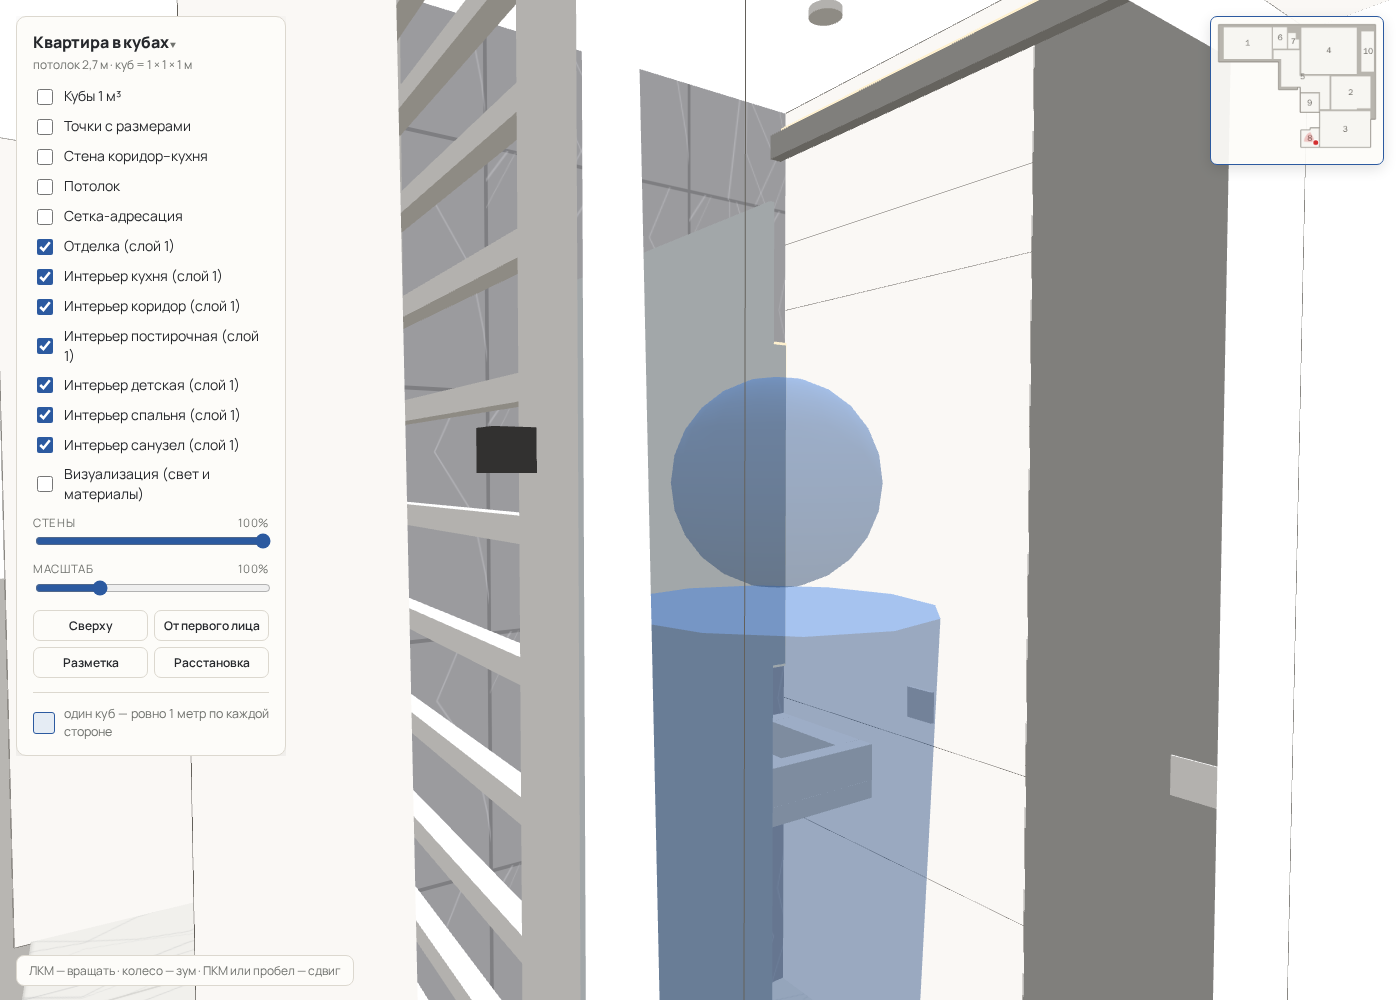
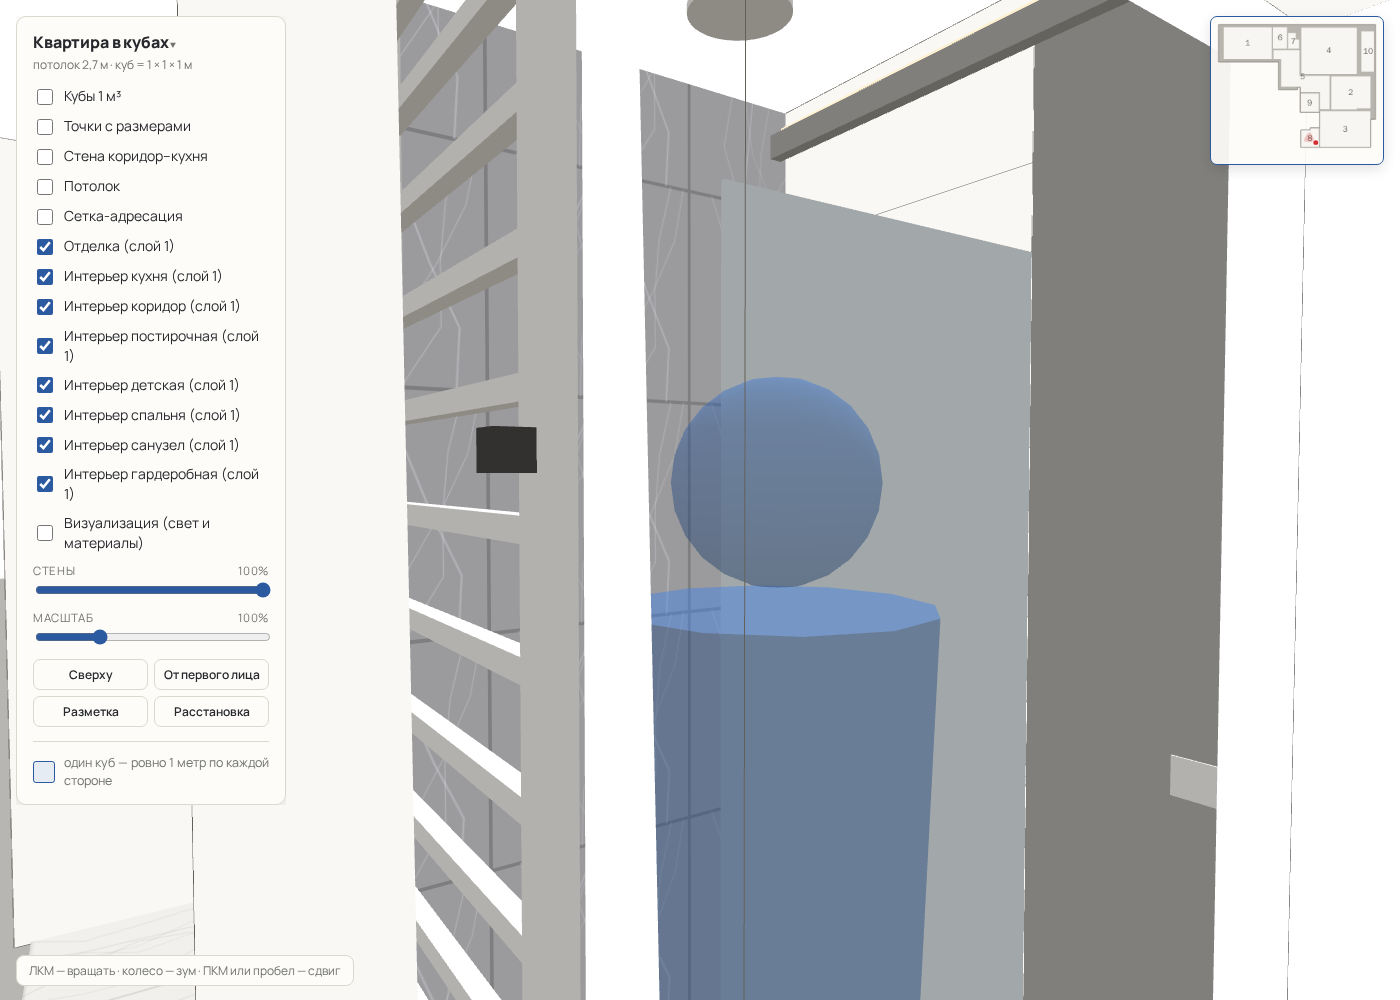
bath8: shower along the whole west wall, glass on the toilet side, no basin

Changed region(s): [[0.5529, 0.186, 0.7371, 1.0], [0.0307, 0.465, 0.215, 0.806], [0.4914, 0.0, 0.6143, 0.062]]

diff --git a/items.js b/items.js
@@ -374,36 +374,25 @@ const PHYS={}; // id → boxes
     {id:'sw5',type:'выключатель 2 клавиши в коридоре у двери санузла: свет + вытяжка; рядом терморегулятор тёплого пола',room:5,layer:'bath',pos:[10.038,8.414],rot:0,size:[0.01,0.99,0.08],fixed:'wall',build(b){ b(0,0.01,0.91,0.99,0,0.08,mat.lamp); }},
     // ---- bathroom 8 (tasks/bath8/README.md, marks M1–M21; grey materials only) ----
     // Room box: x 8.192–9.872, z 11.588–13.144 plus the bump x 9.098–9.872, z 11.384–11.588 (closed by wcbox8). Door on the east
-    // wall z 12.20–13.00. Tiles follow PLAN.baths[1]: west at x 8.235, south at z 13.124, east at x 9.852; the north wall west
+    // wall z 12.20–13.00. The shower runs along the whole west wall (opposite the door); no basin in this room (iteration 2). Tiles follow PLAN.baths[1]: west at x 8.235, south at z 13.124, east at x 9.852; the north wall west
     // of the bump has no tile (z 11.588). The passage strip x 9.10–9.872 × z 12.20–13.00 must stay empty (check.js).
     // Shower floor: the real tray is 0.02 below the finished floor, but floor layers (0.001–0.009) would hide a mesh below 0,
     // so the tray is a darker plate at 0.010 — it reads as a different surface and never flickers with the floor.
-    {id:'shower8',type:'душевая зона в уровень пола 0.86×0.84, поддон из плитки на −0.02 с уклоном к трапу',room:8,layer:'bath',pos:[8.235,12.28],rot:0,size:[0.863,0.01,0.844],fixed:'wall',
-     build(b){ b(0,0.863,0.007,0.010,0,0.844,mat.top); }},
-    {id:'drain8',type:'линейный трап 0.74×0.06 вдоль западной стены',room:8,layer:'bath',pos:[8.25,12.36],rot:0,size:[0.06,0.012,0.74],fixed:'wall',
-     build(b){ b(0,0.06,0.010,0.012,0,0.74,mat.handle); }},
-    {id:'curb8e',type:'бортик душа 0.05×0.05, восточная кромка (переступается)',room:8,layer:'bath',pos:[9.048,12.28],rot:0,size:[0.05,0.05,0.844],
-     build(b){ b(0,0.05,0,0.05,0,0.844,mat.kmat); }},
-    {id:'curb8n',type:'бортик душа 0.05×0.05, северная кромка под стеклом',room:8,layer:'bath',pos:[8.235,12.28],rot:0,size:[0.813,0.05,0.05],fixed:'wall',
-     build(b){ b(0,0.813,0,0.05,0,0.05,mat.kmat); }},
-    {id:'glass8',type:'неподвижное стекло душа 0.81×2.05 на северном бортике',room:8,layer:'bath',pos:[8.235,12.30],rot:0,size:[0.813,2.10,0.01],fixed:'wall',
-     build(b){ b(0,0.813,0.05,0.07,0,0.01,mat.frame); b(0,0.813,0.07,2.10,0,0.01,mat.glass); }},                     // profile, glass
-    {id:'rain8',type:'верхний душ Ø0.25 заподлицо с потолком',room:8,layer:'bath',pos:[8.525,12.625],rot:0,size:[0.25,2.70,0.25],fixed:'wall',
+    {id:'shower8',type:'душевая зона в уровень пола 0.81×1.54 вдоль западной стены, поддон из плитки на −0.02 с уклоном к трапу',room:8,layer:'bath',pos:[8.235,11.588],rot:0,size:[0.813,0.01,1.536],fixed:'wall',
+     build(b){ b(0,0.813,0.007,0.010,0,1.536,mat.top); }},
+    {id:'drain8',type:'линейный трап 1.40×0.06 вдоль западной стены',room:8,layer:'bath',pos:[8.25,11.65],rot:0,size:[0.06,0.012,1.40],fixed:'wall',
+     build(b){ b(0,0.06,0.010,0.012,0,1.40,mat.handle); }},
+    {id:'curb8e',type:'бортик душа 0.05×0.05 по восточной кромке на всю длину; вход в душ с юга (z 12.45–13.12) переступается',room:8,layer:'bath',pos:[9.048,11.588],rot:0,size:[0.05,0.05,1.536],
+     build(b){ b(0,0.05,0,0.05,0,1.536,mat.kmat); }},
+    {id:'glass8',type:'неподвижное стекло душа 0.86×2.05 на бортике со стороны унитаза (z 11.59–12.45)',room:8,layer:'bath',pos:[9.088,11.588],rot:0,size:[0.01,2.10,0.862],
+     build(b){ b(0,0.01,0.05,0.07,0,0.862,mat.frame); b(0,0.01,0.07,2.10,0,0.862,mat.glass); }},                     // profile, glass
+    {id:'rain8',type:'верхний душ Ø0.25 заподлицо с потолком, над закрытой частью душа',room:8,layer:'bath',pos:[8.52,11.95],rot:0,size:[0.25,2.70,0.25],fixed:'wall',
      build(b,g){ const c=new THREE.Mesh(new THREE.CylinderGeometry(0.125,0.125,0.02,32),mat.lamp); c.position.set(0.125,2.69,0.125); g.add(c); }},
     {id:'mixer8',type:'термостат душа h 1.10 и ручная лейка h 1.60 в накладном коробе 0.08 (южная стена наружная); восточнее полки',room:8,layer:'bath',pos:[8.90,13.044],rot:0,size:[0.15,1.70,0.08],fixed:'wall',
      build(b){ b(0.035,0.115,0.90,1.70,0.02,0.08,mat.body); b(0,0.15,1.06,1.14,0,0.02,mat.lamp); b(0.055,0.095,1.58,1.62,0,0.02,mat.lamp); b(0.065,0.085,1.38,1.62,-0.01,0.0,mat.lamp); }}, // pipe cover, thermostat bar, holder, handset
     {id:'niche8',type:'накладная полка-ниша 0.60×0.10×0.30 на южной стене, открыта на север, LED по верхней кромке',room:8,layer:'bath',pos:[8.30,13.024],rot:0,size:[0.60,1.35,0.10],fixed:'wall',
      build(b){ b(0,0.6,1.05,1.07,0,0.10,mat.body); b(0,0.6,1.33,1.35,0,0.10,mat.body); b(0,0.02,1.07,1.33,0,0.10,mat.body); b(0.58,0.6,1.07,1.33,0,0.10,mat.body); b(0.02,0.58,1.07,1.33,0.08,0.10,mat.body); // bottom, top, sides, back
        b(0.02,0.58,1.32,1.33,0.005,0.02,mat.led); }},                                                                     // LED strip under the top edge
-    {id:'basin8',type:'раковина подвесная 0.60×0.38 на западной стене, чаша 0.42×0.28, настольный высокий смеситель',room:8,layer:'bath',pos:[8.235,11.59],rot:0,size:[0.38,1.15,0.60],fixed:'wall',
-     build(b,g){
-       b(0,0.38,0.70,0.75,0,0.60,mat.kmat);                                                                            // slab, bowl floor at 0.75
-       b(0,0.05,0.75,0.85,0,0.60,mat.kmat); b(0.33,0.38,0.75,0.85,0,0.60,mat.kmat); b(0.05,0.33,0.75,0.85,0,0.09,mat.kmat); b(0.05,0.33,0.75,0.85,0.51,0.60,mat.kmat); // rim around the bowl x 0.05–0.33 × z 0.09–0.51
-       const d=new THREE.Mesh(new THREE.CylinderGeometry(0.02,0.02,0.004,16),mat.handle); d.position.set(0.19,0.752,0.30); g.add(d);                   // drain
-       const f=new THREE.Mesh(new THREE.CylinderGeometry(0.02,0.02,0.30,12),mat.lamp); f.position.set(0.06,1.00,0.30); g.add(f); b(0.06,0.18,1.13,1.15,0.29,0.31,mat.lamp); // tall deck mixer by the back edge, spout east
-     }},
-    {id:'mirror8',type:'зеркало 0.60×1.00 без рамы на западной стене, LED-контур сзади',room:8,layer:'bath',pos:[8.235,11.59],rot:0,size:[0.02,2.00,0.60],fixed:'wall',
-     build(b){ b(0,0.01,1.00,2.00,0,0.60,mat.led); b(0.01,0.02,1.01,1.99,0.01,0.59,mat.glass); }},                    // light halo behind, glass in front (faces east)
     {id:'wcbox8',type:'выступ северной стены зашит заподлицо (z 11.588) на всю высоту, рама инсталляции внутри; кнопка смыва на оси',room:8,layer:'bath',pos:[9.098,11.384],rot:0,size:[0.774,2.70,0.204],fixed:'wall',
      build(b){ b(0,0.774,0,2.70,0,0.204,mat.body); b(0.33,0.49,0.96,1.04,0.204,0.209,mat.lamp); }},                    // box, flush plate on the toilet axis (x 9.51)
     {id:'wc8',type:'унитаз подвесной компактный 0.36×0.48, сиденье 0.42, фасад на юг',room:8,layer:'bath',pos:[9.34,11.588],rot:0,size:[0.36,0.42,0.48],fixed:'wall',
@@ -419,9 +408,9 @@ const PHYS={}; // id → boxes
        [0.55,1.10,1.60,2.15].forEach(y=>[0.03,0.44].forEach(x=>b(x,x+0.03,y,y+0.03,0.05,0.08,mat.handle)));            // wall brackets
      }},
     // ceiling: three spots Ø0.08, the extractor fan Ø0.12, hidden LED cove along the north and east walls
-    {id:'spot4',type:'точечный светильник над душем, IP65',room:8,layer:'bath',pos:[8.91,12.68],rot:0,size:[0.08,2.70,0.08],fixed:'wall',
+    {id:'spot4',type:'точечный светильник над входом в душ, IP65',room:8,layer:'bath',pos:[8.62,12.75],rot:0,size:[0.08,2.70,0.08],fixed:'wall',
      build(b,g){ const c=new THREE.Mesh(new THREE.CylinderGeometry(0.04,0.04,0.02,24),mat.lamp); c.position.set(0.04,2.69,0.04); g.add(c); }},
-    {id:'spot5',type:'точечный светильник над раковиной',room:8,layer:'bath',pos:[8.71,11.86],rot:0,size:[0.08,2.70,0.08],fixed:'wall',
+    {id:'spot5',type:'точечный светильник в центре комнаты (общий свет)',room:8,layer:'bath',pos:[9.41,12.56],rot:0,size:[0.08,2.70,0.08],fixed:'wall',
      build(b,g){ const c=new THREE.Mesh(new THREE.CylinderGeometry(0.04,0.04,0.02,24),mat.lamp); c.position.set(0.04,2.69,0.04); g.add(c); }},
     {id:'spot6',type:'точечный светильник над унитазом',room:8,layer:'bath',pos:[9.48,11.91],rot:0,size:[0.08,2.70,0.08],fixed:'wall',
      build(b,g){ const c=new THREE.Mesh(new THREE.CylinderGeometry(0.04,0.04,0.02,24),mat.lamp); c.position.set(0.04,2.69,0.04); g.add(c); }},
@@ -431,7 +420,6 @@ const PHYS={}; // id → boxes
     {id:'fan8',type:'вентилятор вытяжки Ø0.12 в потолке над унитазом',room:8,layer:'bath',pos:[9.46,11.69],rot:0,size:[0.12,2.70,0.12],fixed:'wall',
      build(b,g){ const c=new THREE.Mesh(new THREE.CylinderGeometry(0.06,0.06,0.02,24),mat.wpanel); c.position.set(0.06,2.69,0.06); g.add(c); }},
     // electrics: flat boxes 0.08 × 0.08 × 0.01
-    {id:'sock23',type:'розетка IP44 + USB у раковины на северной стене, h 1.00',room:8,layer:'bath',pos:[8.75,11.59],rot:0,size:[0.08,1.04,0.01],fixed:'wall',build(b){ b(0,0.08,0.96,1.04,0,0.01,mat.lamp); }},
     {id:'sock24',type:'скрытый вывод для полотенцесушителя, h 0.45',room:8,layer:'bath',pos:[9.51,13.114],rot:0,size:[0.08,0.49,0.01],fixed:'wall',build(b){ b(0,0.08,0.41,0.49,0,0.01,mat.lamp); }},
     {id:'sw6',type:'выключатель 2 клавиши (свет + вытяжка) и терморегулятор — в спальне 3 у двери санузла',room:3,layer:'bath',pos:[10.041,12.06],rot:0,size:[0.01,0.99,0.08],fixed:'wall',build(b){ b(0,0.01,0.91,0.99,0,0.08,mat.lamp); }},
     // ---- walk-in closet 6 (tasks/wardrobe6/README.md, marks M1–M13; grey materials only) ----

diff --git a/tools/check.js b/tools/check.js
@@ -465,7 +465,7 @@ const { chromium } = require('playwright');
     await page.evaluate(([x, z, th]) => controls.setFPV(x, z, th), [x, z, th]); await page.waitForTimeout(300);
     await page.screenshot({ path: path.join(outDir, name + '.png') });
   }
-  // bath8: the passage strip x 9.10–9.872 × z 12.20–13.00 × 0–2.10 is free of every part box of room 8 (tolerance 1e-6),
+  // bath8: shower along the whole west wall, glass on the toilet side, no basin; the passage strip x 9.10–9.872 × z 12.20–13.00 × 0–2.10 is free of every part box of room 8 (tolerance 1e-6),
   // toilet axis ≥ 0.35 from the east wall, no layout warnings (corners inside the polygon with the bump), grey materials
   const b8 = await page.evaluate(() => {
     const its = ITEMS.filter(it => it.layer === 'bath' && it.room === 8), bb = o => new THREE.Box3().setFromObject(o);
@@ -474,10 +474,14 @@ const { chromium } = require('playwright');
     const wc = bb(ITEM_GROUPS.wc8), axis = (wc.min.x + wc.max.x) / 2;
     const warn = its.concat(ITEMS.filter(it => it.id === 'sw6')).map(it => [it.id, LAY.warnings(it.id)]).filter(([, w]) => w.length).map(([id, w]) => id + ': ' + w.join('; '));
     const colored = []; its.forEach(it => ITEM_GROUPS[it.id].traverse(o => { if (!o.isMesh || o.material.isMeshBasicMaterial || o.material.transparent) return; const c = o.material.color; if (Math.max(c.r, c.g, c.b) - Math.min(c.r, c.g, c.b) > 0.08 && !colored.includes(it.id)) colored.push(it.id); }));
-    const tray = bb(ITEM_GROUPS.shower8), curbTop = bb(ITEM_GROUPS.curb8e).max.y, glassTop = bb(ITEM_GROUPS.glass8).max.y, glassEast = Math.max(bb(ITEM_GROUPS.glass8).max.x, bb(ITEM_GROUPS.curb8e).max.x);
-    return { n: its.length, inStrip, axisWall: 9.872 - axis, wcFront: wc.max.z, warn, colored, trayLow: tray.min.y, trayHigh: tray.max.y, curbTop, glassTop, glassEast };
+    const tray = bb(ITEM_GROUPS.shower8), curbTop = bb(ITEM_GROUPS.curb8e).max.y, glass = bb(ITEM_GROUPS.glass8), glassTop = glass.max.y, glassEast = Math.max(glass.max.x, bb(ITEM_GROUPS.curb8e).max.x);
+    const wcSide = glass.min.z <= 11.589 && glass.max.z >= 12.4 && wc.max.z <= glass.max.z, showerLen = tray.max.z - tray.min.z;
+    return { n: its.length, inStrip, axisWall: 9.872 - axis, wcFront: wc.max.z, warn, colored, trayLow: tray.min.y, trayHigh: tray.max.y, curbTop, glassTop, glassEast, wcSide, showerLen, basin: !!ITEM_GROUPS.basin8 };
   });
-  if (b8.n < 20) problems.push('санузел 8: предметов слоя bath ' + b8.n + ' (< 20)');
+  if (b8.n < 16) problems.push('санузел 8: предметов слоя bath ' + b8.n + ' (< 16)');
+  if (b8.basin) problems.push('санузел 8: раковины быть не должно');
+  if (b8.showerLen < 1.53) problems.push('санузел 8: душ не вдоль всей западной стены: ' + b8.showerLen.toFixed(2));
+  if (!b8.wcSide) problems.push('санузел 8: стекло не закрывает душ со стороны унитаза');
   if (b8.inStrip.length) problems.push('санузел 8: в полосе прохода: ' + b8.inStrip.join(', '));
   if (b8.axisWall < 0.35) problems.push('санузел 8: ось унитаза ближе 0.35 к стене: ' + b8.axisWall.toFixed(3));
   if (b8.wcFront > 12.2) problems.push('санузел 8: унитаз заходит в полосу прохода: z ' + b8.wcFront.toFixed(3));

diff --git a/tasks/bath8/README.md b/tasks/bath8/README.md
@@ -258,3 +258,12 @@ ID новых предметов: `shower8` (M1), `drain8` (M2), `curb8e`/`curb8
 - Настольный смеситель раковины сдвинут на 0.06 от стены, чтобы не пересекаться с зеркалом (низ 1.00).
 
 Не сделано: створка двери не строится; трасса слива и канал вытяжки — только в тексте.
+
+## Итерация 2 (2026-09-06, правки пользователя; `.local/room8_1.png`, `room8_2.png`)
+
+- Раковина M9, зеркало M10 и розетка у раковины M19 удалены — раковины в этой комнате не будет.
+- Душ развёрнут вдоль всей западной стены (напротив входа): поддон x 8.235–9.048 × z 11.588–13.124 (0.81 × 1.54),
+  трап 1.40 вдоль стены, бортик 0.05 по всей восточной кромке; стекло 0.86 × 2.05 на бортике со стороны унитаза
+  (z 11.588–12.45), вход в душ — с юга (z 12.45–13.12) прямо из полосы прохода; лейка над закрытой частью (8.65, 12.08).
+- Спот над раковиной перенесён в центр комнаты (9.45, 12.60), спот душа — над входом в душ. Полка-ниша, термостат и
+  сушитель на южной стене без изменений. Предметов в комнате 16, тест bath8 проверяет длину душа и стекло со стороны унитаза.
